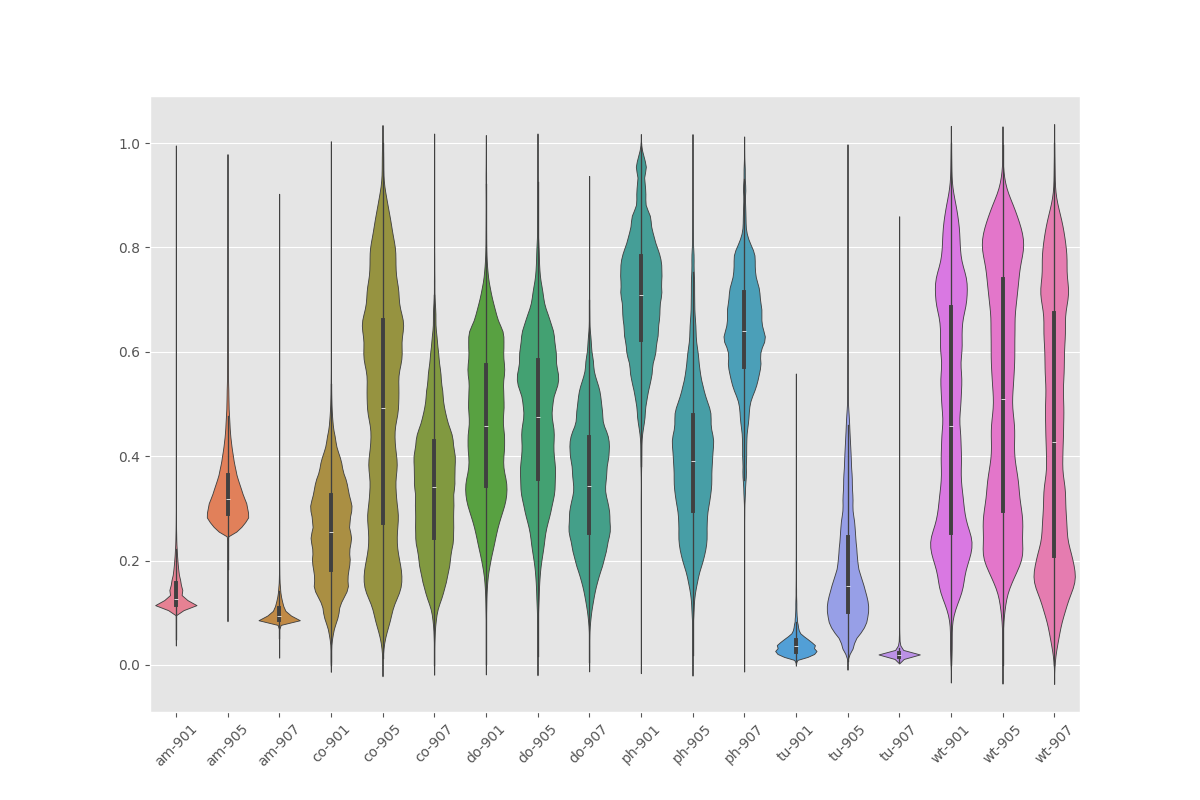
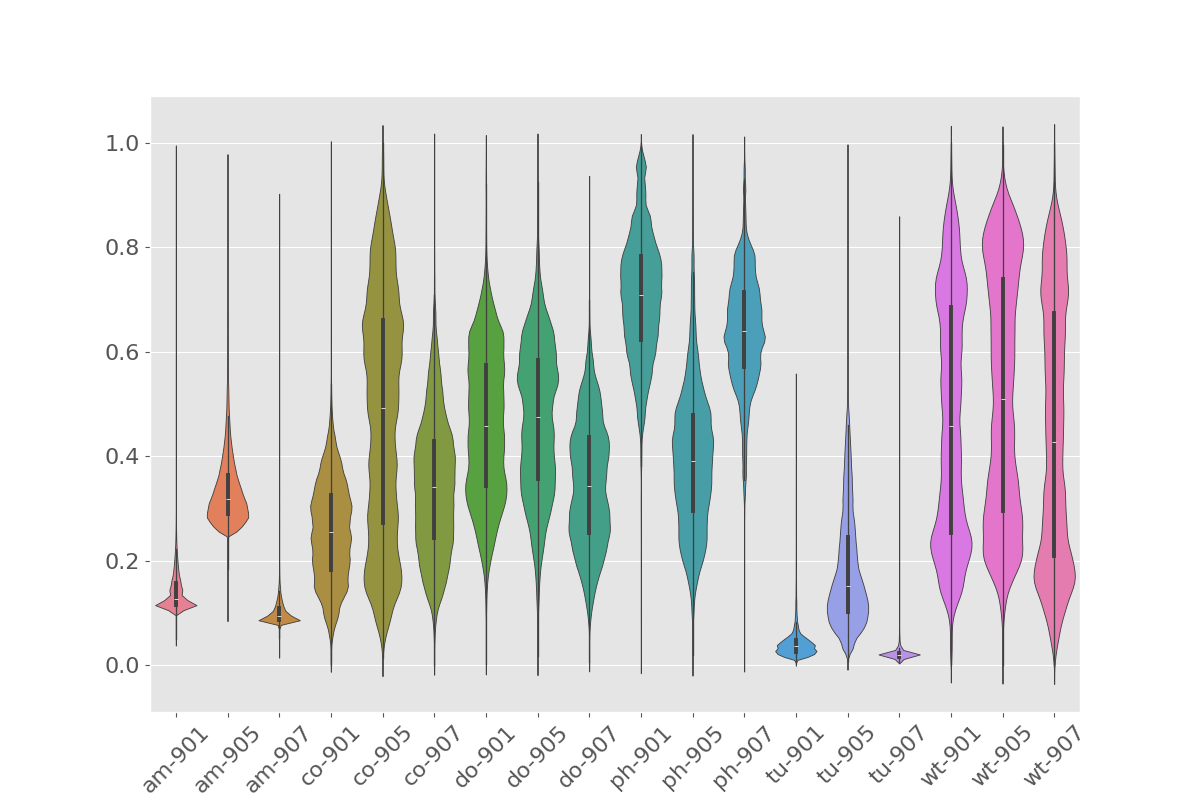
Update size ticks

diff --git a/plots/stats.py b/plots/stats.py
@@ -28,7 +28,9 @@ data.columns = new_column_names
 # Plotting the boxplots
 plt.figure(figsize=(12, 8))
 sns.violinplot(data=data)
-plt.xticks(rotation=45)
+plt.xticks(rotation=45, fontsize=16)
+plt.yticks(fontsize=16)
+
 
 plt.savefig('plots/violinplot.png')
 
